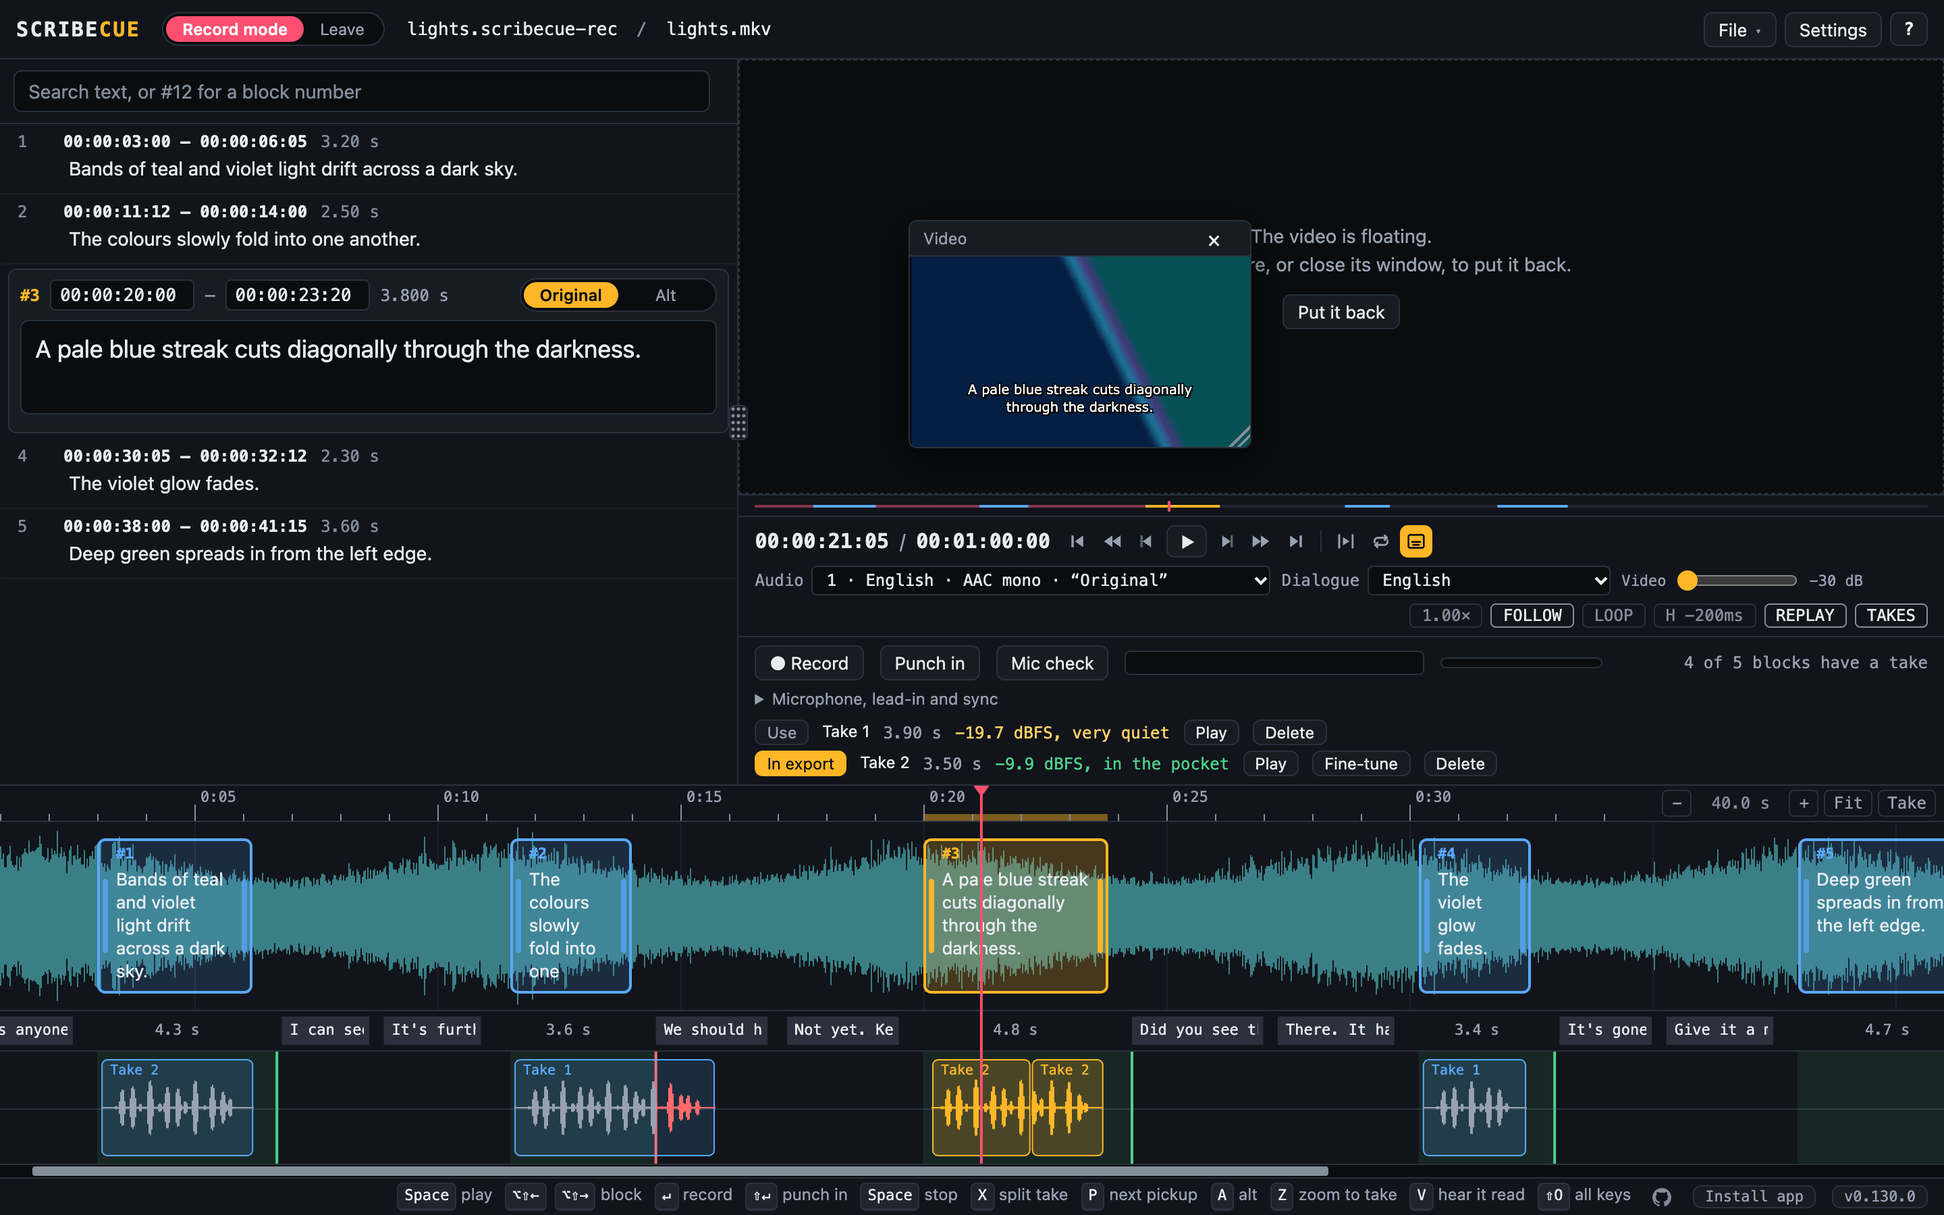
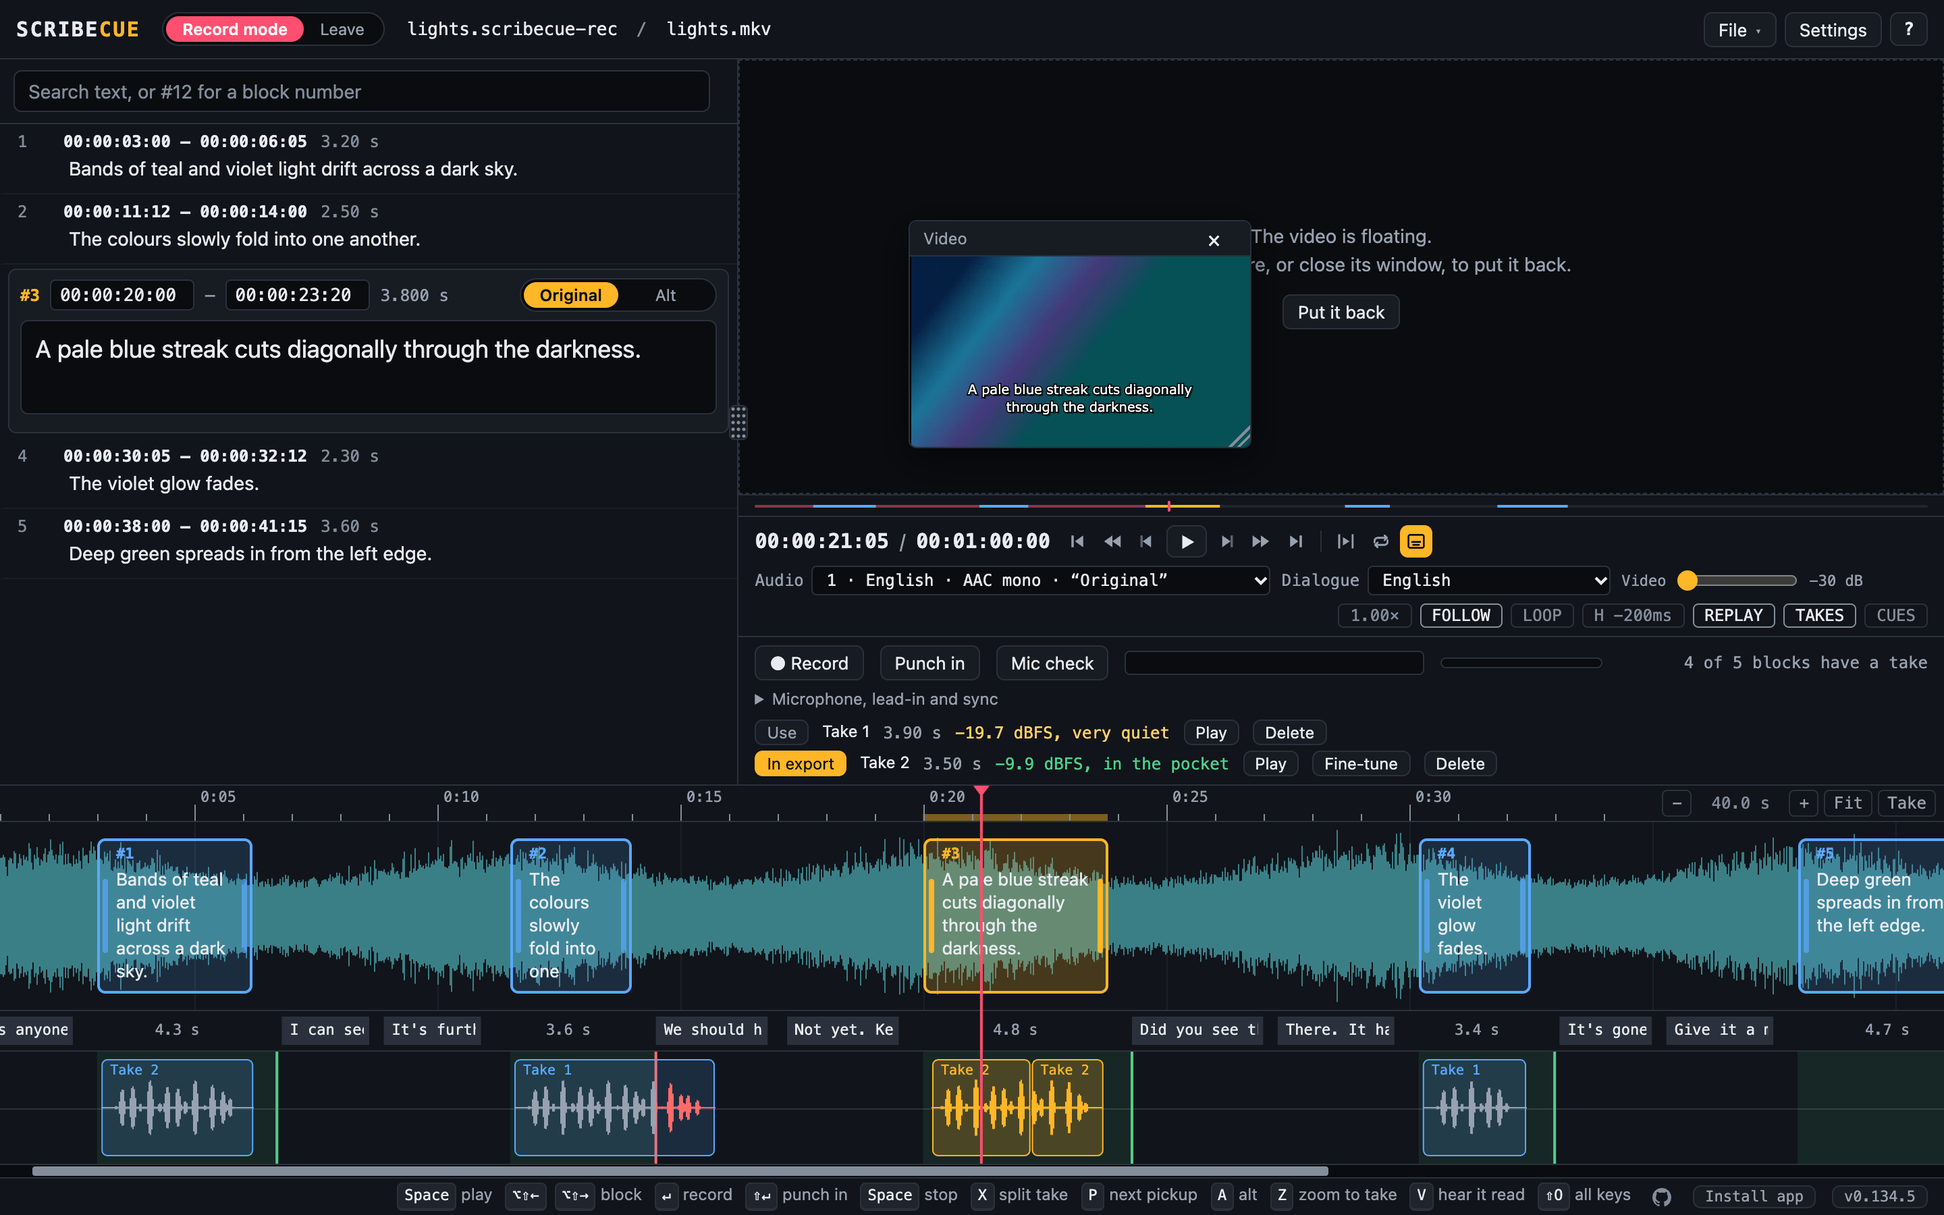
Quieter screen reader status and sound cues in Record mode (#122)
The status under the video was a live region that changed on every frame
while recording. It's now read out only when recording starts and with the
result, never while the take is read.

Sound cues, off until turned on with B or CUES under the video: three pips
count in to each take, a tone marks one second left in the slot, and two
low tones its end. Extended blocks get the count-in only.

Also fixes the shortcuts overlay's Record mode list, which was squashed
into columns.

diff --git a/app/js/record.js b/app/js/record.js
@@ -3,7 +3,7 @@
 // that); this file does the recording. The guide is Guides/RECORDING.md.
 
 import { drawLevel, sizeMeter, showLoudest } from './levelmeter.js';
-import { slots, prevEnd, narrationTimeline, peakTrail, peakDb, judgePeak, dbText, runsOver, checkExport, exportReport, recordingId, placeTake, looksBluetooth, narrationNote, takeAt, nextTake, punchIn, PUNCH_MIN, pieces, placed, clampEdit, splitAt, cutPart, trimSilence, fitSlot, startAtBlock, trimAndStart, snap, flatten, wavePeaks, clipAt, relink, takesKey, pickedUp, originalTake, checkPickups, checkAlts, isAlt, unusedTakes, recLead, REC_LEAD, markerLabel, leadInParts, partEnds, stepEnd, videoDb, videoDbText, VIDEO_DB_MIN, fromRecordingFile, asRecordingFile, DRIFT, PREROLL, RATE, EDGE_FADE } from './recording.js';
+import { slots, prevEnd, narrationTimeline, peakTrail, peakDb, judgePeak, dbText, runsOver, checkExport, exportReport, recordingId, placeTake, looksBluetooth, narrationNote, takeAt, nextTake, punchIn, PUNCH_MIN, pieces, placed, clampEdit, splitAt, cutPart, trimSilence, fitSlot, startAtBlock, trimAndStart, snap, flatten, wavePeaks, clipAt, relink, takesKey, pickedUp, originalTake, checkPickups, checkAlts, isAlt, unusedTakes, recLead, REC_LEAD, markerLabel, leadInParts, partEnds, stepEnd, videoDb, videoDbText, VIDEO_DB_MIN, fromRecordingFile, asRecordingFile, DRIFT, PREROLL, RATE, EDGE_FADE, cueTimes, dueCues } from './recording.js';
 import { storeZip } from './zip.js';
 import { blockToHold, stillHeard, pauseList } from './extended.js';
 import { fmtTime } from './formats.js';
@@ -18,7 +18,7 @@ const LEVEL_WORDS = { good: 'in the pocket', note: 'fine', quiet: 'very quiet', 
 const get = (k) => { try { return localStorage.getItem('scribecue.rec.' + k); } catch { return null; } };
 const put = (k, v) => { try { if (v == null) localStorage.removeItem('scribecue.rec.' + k); else localStorage.setItem('scribecue.rec.' + k, v); } catch { /* storage blocked */ } };
 
-// h: { video, toast, notice(title, text), blocks(), selIdx(), select(i), seek(t), baseName(), volume(on, db), app }
+// h: { video, toast, announce(text), notice(title, text), blocks(), selIdx(), select(i), seek(t), baseName(), volume(on, db), app }
 export function initRecord(h) {
   const { video } = h;
   const el = { go: $('recGo'), status: $('recStatus'), meter: $('recMeter'), fill: $('recSlotFill'), slot: $('recSlot'),
@@ -36,6 +36,7 @@ export function initRecord(h) {
   let leadSecs = recLead(get('lead') ?? REC_LEAD);
   let syncMs = get('sync') != null ? +get('sync') : null; // null: use the browser's figure
   let wasPlaying = false;
+  let cues = get('cues') === '1'; // sound cues while recording: off unless turned on
   let where = 'browser';     // where takes are kept: 'folder' or 'browser' (a session)
   let keep = 'none';         // the session: ready | choose (no folder yet) | paused (the browser asks again) | moving
   let paused = null;         // the folder the browser asks about again, while paused
@@ -81,6 +82,32 @@ export function initRecord(h) {
 
   // ---- panel
   function status(msg) { el.status.textContent = msg; }
+  // The status, read out too. Only for moments a screen reader should speak: never while a
+  // take is being read, as it would talk over the narrator, and could be recorded.
+  function say(msg) { status(msg); h.announce(msg); }
+
+  // ---- sound cues: pips count in to each take, then a tone a second before the slot ends
+  // and a low one at its end. Heard on the output only, not recorded (with headphones).
+  const CUE_SOUND = { count: [1000, 0.06, 1], warn: [660, 0.09, 1], end: [440, 0.12, 2] };
+  function pip(kind, inSecs) {
+    const ctx = outCtx(), [hz, len, n] = CUE_SOUND[kind];
+    for (let k = 0; k < n; k++) {
+      const at = ctx.currentTime + inSecs + k * len * 1.6;
+      const o = ctx.createOscillator(), g = ctx.createGain();
+      o.frequency.value = hz;
+      g.gain.setValueAtTime(0, at);
+      g.gain.linearRampToValueAtTime(0.25, at + 0.005);
+      g.gain.setValueAtTime(0.25, at + len - 0.01);
+      g.gain.linearRampToValueAtTime(0, at + len);
+      o.connect(g).connect(ctx.destination);
+      o.start(at); o.stop(at + len + 0.01);
+    }
+  }
+  function setCues(on) {
+    cues = on;
+    put('cues', on ? '1' : null);
+    if (on) { outCtx(); pip('count', 0.05); } // a sample, so you know what to listen for
+  }
   function render() {
     h.redraw();
     if (editing && !takeOf(editing.id)?.chosen) editing = null; // another take was picked
@@ -794,6 +821,7 @@ export function initRecord(h) {
       p = { base, at, ps: pieces(base) };
       outCtx(); // now, on the key press: Safari won't play sound otherwise
     }
+    if (cues) outCtx(); // now, on the key press: Safari won't play sound otherwise
     const from = video.currentTime; // where Esc puts the playhead back
     stopPlay();
     state = 'arming'; status('Getting the microphone…'); render();
@@ -816,6 +844,8 @@ export function initRecord(h) {
     cap.trail = peakTrail(RATE / PR);
     cap.t0 = Math.max(0, (p ? p.at : s.start) - PREROLL);
     h.seek(Math.max(0, cap.t0 - leadSecs));
+    cap.cues = cues ? cueTimes(s, { at: p ? p.at : s.start, from: Math.max(0, cap.t0 - leadSecs) }) : null;
+    h.announce(`${p ? 'Picking up' : 'Recording'} block ${i + 1}${alt != null ? ', the alt' : ''}`);
     wasPlaying = true;
     video.play().catch(() => {});
     state = 'lead'; render();
@@ -834,6 +864,7 @@ export function initRecord(h) {
       if (p) {
         p.player.follow(p.ps, video.currentTime, p.at);
       }
+      if (cap.cues && !video.paused) for (const c of dueCues(cap.cues, video.currentTime)) pip(c.kind, c.in / (video.playbackRate || 1));
       if (state === 'lead') status(p ? `Picks up in ${Math.max(0, p.at - video.currentTime).toFixed(1)} s` : `Starts in ${Math.ceil(Math.max(0, cap.slot.start - video.currentTime))} s: set your level`);
       if (state === 'rec' && cap.slot.hold) {
         // The video stops at the block, and the take runs as long as the reading does.
@@ -862,6 +893,7 @@ export function initRecord(h) {
   async function finish(discard = false) {
     if (state !== 'lead' && state !== 'rec') return;
     const c = cap, wasRec = state === 'rec';
+    const over = wasRec && !c.slot.hold ? video.currentTime - c.slot.end : 0;
     state = 'saving'; status('Saving the take…'); render();
     video.pause();
     if (discard) h.seek(c.from);
@@ -878,7 +910,7 @@ export function initRecord(h) {
     });
     disarm();
     level = 0; frame(); el.fill.style.width = '0'; el.slot.classList.remove('over');
-    if (samples.length < RATE * 0.3) { state = 'idle'; status(wasRec ? 'Too short to keep: nothing saved' : c.punch ? 'Stopped before the join: nothing saved' : 'Stopped before the block: nothing saved'); render(); return; }
+    if (samples.length < RATE * 0.3) { state = 'idle'; say(wasRec ? 'Too short to keep: nothing saved' : c.punch ? 'Stopped before the join: nothing saved' : 'Stopped before the block: nothing saved'); render(); return; }
     // The sound reaches the narrator late and reaches Scribecue late: take both off.
     const delay = delayOf(c);
     const { start, skip } = placeTake({ t0: c.t0, delay, prevEnd: c.prevEnd });
@@ -892,7 +924,7 @@ export function initRecord(h) {
       peak: peakDb(kept), made: Date.now(), wav: wav24(to24(kept), RATE), ...(c.punch && { punch: c.punch.at }),
       line: { start: b.start, end: b.end, text: b.text }, ver: version(), ...(c.alt != null && { alt: c.alt }) };
     const what = c.alt != null ? 'the alt take' : 'the take';
-    if (discard && !currentSession()) { state = 'idle'; status(`Discarded ${what}`); render(); return; }
+    if (discard && !currentSession()) { state = 'idle'; say(`Discarded ${what}`); render(); return; }
     try {
       await saveTake(take, !discard);
       if (discard) await deleteTake(rec.id, take.id);
@@ -908,7 +940,10 @@ export function initRecord(h) {
       return h.toast(`Discarded ${what}. Undo: ⌘Z`, undoDelete);
     }
     const j = judgePeak(take.peak);
-    status(`Saved ${c.alt != null ? 'alt take' : 'take'} ${blockTakes(c.block, c.alt != null).length}: ${dbText(take.peak)}, ${LEVEL_WORDS[j]}`);
+    const saved = `Saved ${c.alt != null ? 'alt take' : 'take'} ${blockTakes(c.block, c.alt != null).length}: ${dbText(take.peak)}, ${LEVEL_WORDS[j]}` +
+      (over > 0.05 ? `, ${over.toFixed(1)} s over the slot` : '');
+    // Too loud has a message of its own, which is read out instead.
+    if (j === 'loud') status(saved); else say(saved);
     if (j === 'loud') h.toast('That take is too loud. Lower your gain and record it again: the export won’t go ahead with it');
   }
 
@@ -1594,6 +1629,8 @@ export function initRecord(h) {
     refresh: () => reload(),
     get hearing() { return hear; },
     setHearing,
+    get cues() { return cues; },
+    setCues,
     stopPlayback: stopPlay,
     // raw: the recording file as opened, kept in its session.
     async open(file, rawFile = null) {

diff --git a/app/js/app.js b/app/js/app.js
@@ -3072,6 +3072,7 @@ const IND_TIPS = {
   offset: 'Reaction offset: blocks marked, and reads timed, with H move back by this much, since you let go a moment late. ⇧H changes it; click for its settings',
   tts: 'Text to speech for this project: blocks are read aloud (V), and each ends where its reading does. Click to turn it off for this project, so ends can be dragged by hand. Its settings are under ⌥⇧V',
   takes: 'Takes: hear the take chosen for each block as the video plays. Click to turn it off or on',
+  cues: 'Sound cues: pips count you in to each take, then a tone a second before the block’s time is up, and a low one when it is. Only you hear them, in your headphones (B)',
   qc: 'QC review: choose original readings, programme sound or an approximate TTS preview, or compare a returned review',
   stt: 'Speech to text is on: Whisper types what the narrator says in each block you mark. Click for its settings, or to transcribe empty blocks (⌥⇧H)',
 };
@@ -3088,7 +3089,7 @@ function updateInd() {
     ...(S.lead && S.mode !== 'record' ? [['lead', `LEAD ${S.lead} s`, true]] : []),
     ...(returning() ? [['returnToStart', 'RETURN', true]] : []),
     ...(S.mode === 'transcribe' && stt.on && stt.ready ? [['stt', 'STT', true]] : []),
-    ...(S.mode === 'record' ? [['takes', 'TAKES', !!recorder?.hearing]] : []),
+    ...(S.mode === 'record' ? [['takes', 'TAKES', !!recorder?.hearing], ['cues', 'CUES', !!recorder?.cues]] : []),
     // On in this browser: a toggle for this project, like FOLLOW. Settings turn it on or off
     // for the browser.
     ...(writing() && tts.on ? [['tts', S.ttsOff ? 'TTS OFF' : tts.base !== 1 ? `TTS ${Math.round(tts.base * 100)}%` : 'TTS', !S.ttsOff]] : []),
@@ -3103,7 +3104,7 @@ function updateInd() {
     const tip = key === 'follow' && S.mode === 'record' ? 'Follow: keep the playhead in view as it plays (F). The selected block stays selected' : IND_TIPS[key];
     s.dataset.tip = pcKeys(tip);
     s.setAttribute('aria-label', speakable(tip, IS_MAC));
-    if (['follow', 'loop', 'takes', 'tts'].includes(key)) s.setAttribute('aria-pressed', String(!!on));
+    if (['follow', 'loop', 'takes', 'cues', 'tts'].includes(key)) s.setAttribute('aria-pressed', String(!!on));
     else if (key !== 'speed') s.classList.add('setlabel');
     s.className = (on ? 'on ' : '') + (key === 'speed' || key === 'follow' ? '' : 'tip-end');
     ind.append(s);
@@ -3282,8 +3283,16 @@ ind.addEventListener('click', (e) => {
     updateInd();
     toast(recorder.hearing ? 'Takes on: the chosen takes play with the video' : 'Takes off');
   }
+  else if (k === 'cues') toggleCues();
   else if (k) toggleFlag(k);
 });
+
+// Sound cues in Record mode: pips to count in to each take and mark the end of its time.
+function toggleCues() {
+  recorder.setCues(!recorder.cues);
+  updateInd();
+  toast(recorder.cues ? 'Sound cues on: pips count you in, then a tone a second before the block’s time is up, and a low one when it is' : 'Sound cues off');
+}
 
 function toggleFlag(k) {
   S[k] = !S[k];
@@ -5924,6 +5933,7 @@ function showAlts(note, same) {
 
 recorder = initRecord({
   video, toast, notice,
+  announce: (text) => announce(text, IS_MAC),
   blocks: () => S.cues,
   selIdx, hasVideo: () => S.hasVideo,
   select: (i) => { if (S.cues[i] && S.cues[i].id !== S.sel) select(S.cues[i].id, { seek: false }); },
@@ -8327,6 +8337,7 @@ const REC_RUN = {
   recPickup: () => recorder.nextPickup(),
   recAlt: () => recorder.toggleAlt(),
   recZoom: () => zoomToTake(),
+  recCues: () => toggleCues(),
 };
 
 // What each keymap action does.

diff --git a/app/js/recording.js b/app/js/recording.js
@@ -644,6 +644,35 @@ export function recLead(v) {
 
 export const PREROLL = 0.2;
 
+// Sound cues for a take, as video times, so the narrator needn't watch the screen: a pip on
+// each of the last CUE_COUNT seconds before reading starts (at), as far as the video plays
+// first (from); a warning CUE_WARN before the slot ends, when there's time to read before
+// it; and the end of the slot. An extended block's slot has no end: only the count-in.
+export const CUE_COUNT = 3, CUE_WARN = 1;
+export function cueTimes(slot, { at = slot.start, from = -Infinity } = {}) {
+  const out = [];
+  for (let k = CUE_COUNT; k >= 1; k--) if (at - k >= from - 0.01) out.push({ t: at - k, kind: 'count' });
+  if (!slot.hold && Number.isFinite(slot.end) && slot.end > at) {
+    if (slot.end - CUE_WARN - at >= 1.5) out.push({ t: slot.end - CUE_WARN, kind: 'warn' });
+    out.push({ t: slot.end, kind: 'end' });
+  }
+  return out;
+}
+
+// The cues to play now, as the video reaches now: those within ahead seconds, each with how
+// long until it's heard. Cues already passed by more than late are dropped, not played late.
+// Marks each cue it hands back, or drops, as done.
+export const CUE_AHEAD = 0.3;
+export function dueCues(cues, now, { ahead = CUE_AHEAD, late = 0.05 } = {}) {
+  const out = [];
+  for (const c of cues) {
+    if (c.done || c.t - now > ahead) continue;
+    c.done = true;
+    if (now - c.t <= late) out.push({ kind: c.kind, in: Math.max(0, c.t - now) });
+  }
+  return out;
+}
+
 // The video's sound in Record mode, in dB: as it is (0) down to −30, so the narrator can
 // follow the scene. Read from storage: anything else gives the quietest.
 export const VIDEO_DB_MIN = -30;

diff --git a/app/index.html b/app/index.html
@@ -226,7 +226,7 @@
           <button id="recMic" data-tip="Mic check: read a few lines and see where your peaks land, to set your gain">Mic check</button>
           <canvas id="recMeter" width="220" height="16" role="img" aria-label="Microphone level. Aim for the green zone"></canvas>
           <div class="recslot" id="recSlot" data-tip="How much of the block's slot is left"><div id="recSlotFill"></div></div>
-          <span id="recStatus" role="status"></span>
+          <span id="recStatus"></span>
           <span id="recCount" class="dim"></span>
           <button id="recSession" hidden></button>
         </div>
@@ -1857,6 +1857,7 @@ docker compose up -d --build</code></pre>
             <dt data-keys="recPickup"><kbd>P</kbd></dt><dd>Go to the next pickup</dd>
             <dt data-keys="recAlt"><kbd>A</kbd></dt><dd>Alt: switch between the block and your own wording for it</dd>
             <dt data-keys="recZoom"><kbd>Z</kbd></dt><dd>Zoom to the block's take, or back</dd>
+            <dt data-keys="recCues"><kbd>B</kbd></dt><dd>Sound cues on or off: pips count you in to each take, and mark the end of its time</dd>
             <dt data-keys="play"><kbd>Space</kbd></dt><dd>Stop recording</dd>
             <dt data-keys="recDiscard" data-fixed="Escape"><kbd>Esc</kbd></dt><dd>Stop recording, and discard the take</dd>
             <dt><kbd>V</kbd></dt><dd>Hear the block read by text to speech, as a guide</dd>

diff --git a/app/js/tour.js b/app/js/tour.js
@@ -30,6 +30,7 @@ export function loop(mode, key = keyFor) {
     `3. Go on to the next block with ${key('blockNext')}.`,
     'Only the end went wrong? Punch in: E puts the playhead at the end of the take, ← steps back to where to pick up, and Shift+Enter or Shift+R records from there.',
     'Every take is kept, and the newest goes in the export.',
+    `Rather not watch the screen? ${key('recCues')} turns on sound cues: pips count you in to each take, and tones mark the end of its time.`,
   ].join('\n');
   return mode === 'write'
     ? [

diff --git a/app/css/style.css b/app/css/style.css
@@ -108,6 +108,7 @@ kbd + kbd { margin-left: 2px; }
 .mode-record .record-only { display: flex; }
 .mode-record .record-only[hidden] { display: none; }
 .mode-record .hint.record-only, .mode-record .setrec.record-only { display: block; }
+.mode-record dl.record-only { display: grid; } /* the shortcuts overlay's key lists */
 .mode-record .transcribe-only, .mode-record .write-only, .mode-record #modeSw { display: none; }
 .mode-record .not-record { display: none; }
 /* Record mode: the script is locked, so nothing offers to change or save it. */

diff --git a/app/js/keymap.js b/app/js/keymap.js
@@ -104,6 +104,7 @@ export const GROUPS = [
     ['recPickup', 'Go to the next pickup', ['KeyP']],
     ['recAlt', 'Alt: switch between the block and your own wording for it', ['KeyA']],
     ['recZoom', 'Zoom to the block’s take, or back', ['KeyZ']],
+    ['recCues', 'Sound cues on / off: pips count you in to each take, and mark the end of its time', ['KeyB']],
   ]],
   ['View', [
     ['help', 'Keyboard shortcuts', ['Shift+KeyO']],

diff --git a/Guides/RECORDING.md b/Guides/RECORDING.md
@@ -13,6 +13,7 @@ raw, for the mixer to work with.
 - [Recording](#recording)
   - [Before you start](#before-you-start)
   - [Recording a block](#recording-a-block)
+  - [Sound cues](#sound-cues)
   - [Extended blocks](#extended-blocks)
   - [Levels](#levels)
   - [Takes](#takes)
@@ -116,6 +117,7 @@ The writer's notes for a block, such as how to say a name, show above its text.
 | P | Go to the next [pickup](#pickups) |
 | A | Switch to the block's [alt](#alts), or back |
 | Z | [Zoom to the block's take](#editing-a-take), or back |
+| B | [Sound cues](#sound-cues) on or off |
 | Space | Play or pause, or stop recording |
 | Alt+Shift+Left / Right | Previous or next block |
 
@@ -125,6 +127,25 @@ To change these keys, see [Changing shortcuts](SHORTCUTS.md#changing-shortcuts).
 A block's **slot** runs from its start to the end of its grace. The writer picks the grace in the
 recording file, from none to 2 seconds. It's half a second unless they change it. A slot never runs into the
 next block. A take that runs past it isn't cut off. It's marked in red until you [trim or move it](#editing-a-take).
+
+### Sound cues
+
+Sound cues let you record without watching the screen. Press **B**, or click **CUES** under the
+video, to turn them on. They stay on in this browser.
+
+| You hear | Means |
+|---|---|
+| Three high pips | Counting in: start reading on the beat after the third |
+| One middle tone | One second left in the slot |
+| Two low tones | The slot has ended |
+
+- Wear headphones, so the microphone doesn't pick the cues up.
+- A short lead-in has room for fewer pips.
+- A short slot has no one-second tone.
+- Extended blocks get the count-in only.
+
+With a screen reader, Scribecue says when recording starts and what was saved, such as how
+far over the slot you went. It stays quiet while you read.
 
 ### Extended blocks
 
